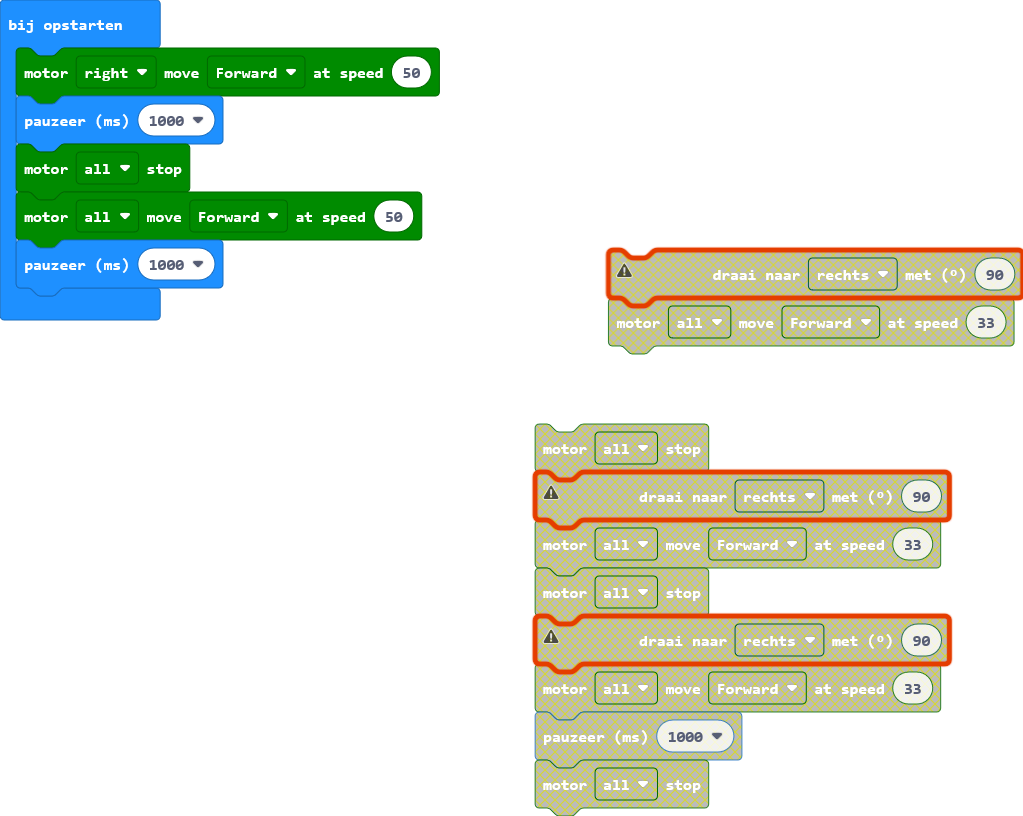
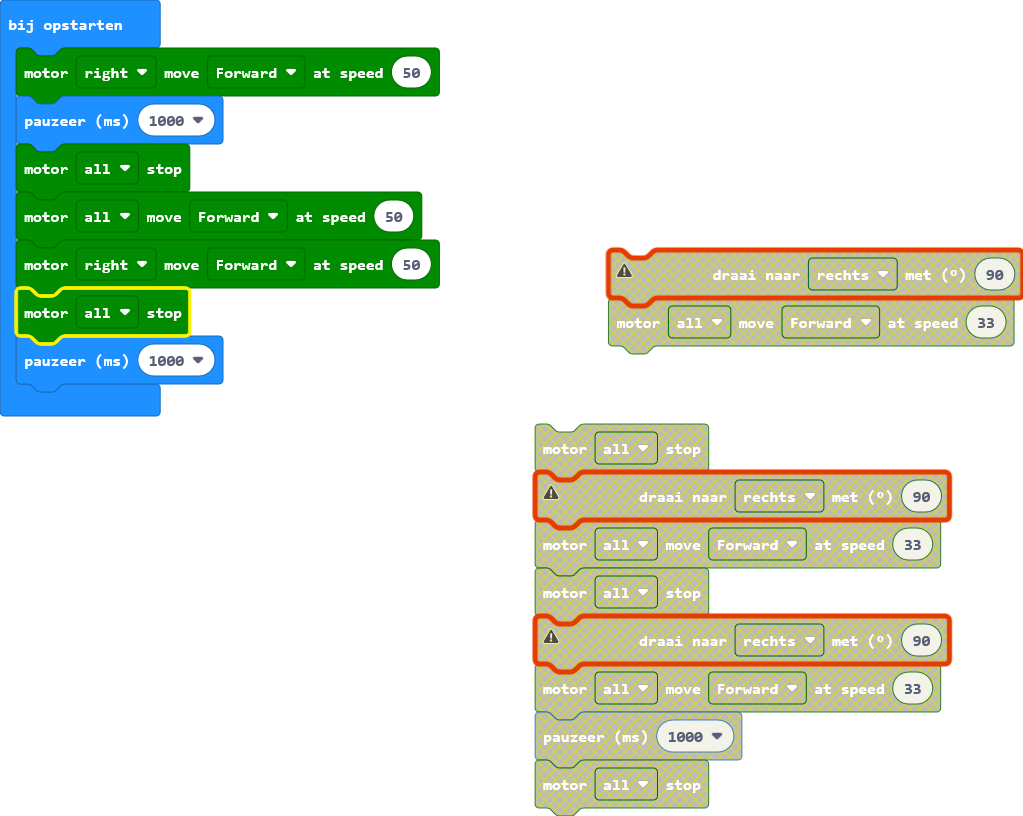
main.blocks, main.ts bijwerken

Changed region(s): [[0.0, 0.2757, 0.4545, 0.5208]]

diff --git a/main.ts b/main.ts
@@ -2,4 +2,6 @@ maqueen.motorRun(maqueen.Motors.M2, maqueen.Dir.CW, 50)
 basic.pause(1000)
 maqueen.motorStop(maqueen.Motors.All)
 maqueen.motorRun(maqueen.Motors.All, maqueen.Dir.CW, 50)
+maqueen.motorRun(maqueen.Motors.M2, maqueen.Dir.CW, 50)
+maqueen.motorStop(maqueen.Motors.All)
 basic.pause(1000)
